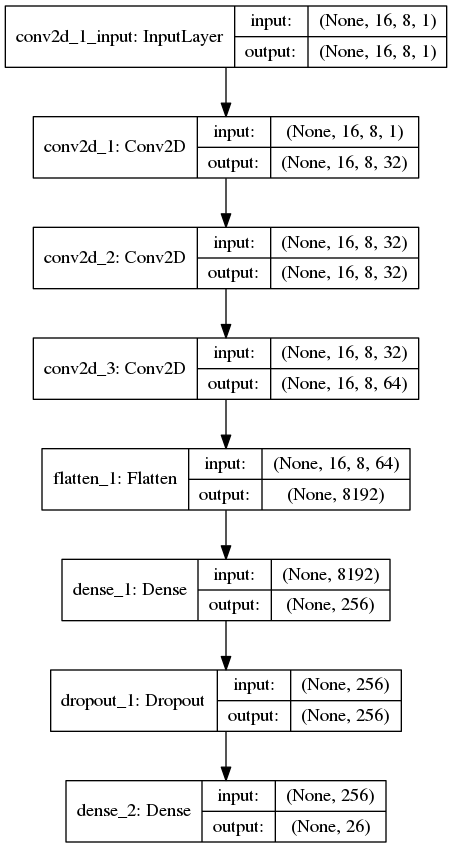
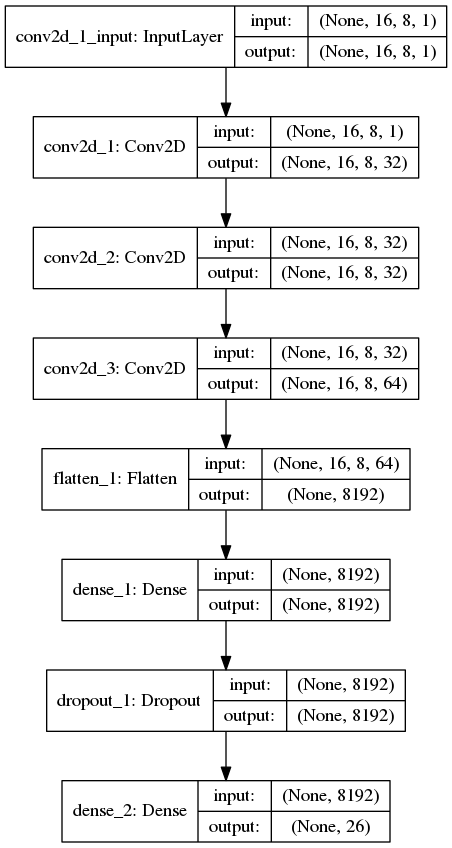
Project complete.

diff --git a/ocr_engine/ocr_dense.py b/ocr_engine/ocr_dense.py
@@ -68,22 +68,13 @@ def load_data():
 # defining function to build the different layers of the neural network
 def make_model():
 	model = Sequential() #For a sequential neural network
-	
-	model.add(Dense(32, activation='relu',input_shape=[16, 8, 1]))
-	#32x3x3 convolutional filters activated with RELU
+	model.add(Flatten())	
+	model.add(Dense(288, activation='relu',input_shape=[16, 8, 1]))
 
-	model.add(Dense(32, activation='relu'))
-	model.add(Dense(64, activation='relu'))
-
-	model.add(Flatten())
-	#To reshape the data from 64x16x8 to a single long vector of length 64*16*8
-
-	model.add(Dense(256, activation='relu'))
-	#This acts as the classifers for the conv feature maps
-
+	model.add(Dense(4096, activation='relu'))
+	model.add(Dense(576, activation='relu'))
+	model.add(Dense(3640, activation='relu'))
 	model.add(Dropout(0.5))
-	#Dropout is a great regularization technique, check it out, it's very useful
-
 	model.add(Dense(26, activation='softmax'))
 	#Final predicted output
 	

diff --git a/ocr_engine/ocr_cnn.py b/ocr_engine/ocr_cnn.py
@@ -78,7 +78,7 @@ def make_model():
 	model.add(Flatten())
 	#To reshape the data from 64x16x8 to a single long vector of length 64*16*8
 
-	model.add(Dense(256, activation='relu'))
+	model.add(Dense(8192, activation='relu'))
 	#This acts as the classifers for the conv feature maps
 
 	model.add(Dropout(0.5))
@@ -111,7 +111,7 @@ plot_model(model, to_file='ConvolutionalNeuralNetwork.png',show_shapes=True,show
 
 #training the model with the training data set, using epochs = 10, meaning it iterates through the entire data set 10 times)
 #And, validation data is 20%, while 80% is training data.
-model.fit(data_train, label_train, batch_size=16, epochs=50, validation_data=(data_val, label_val))
+model.fit(data_train, label_train, batch_size=16, epochs=20, validation_data=(data_val, label_val))
 
 score = model.evaluate(data_test, label_test, verbose=0)
 
